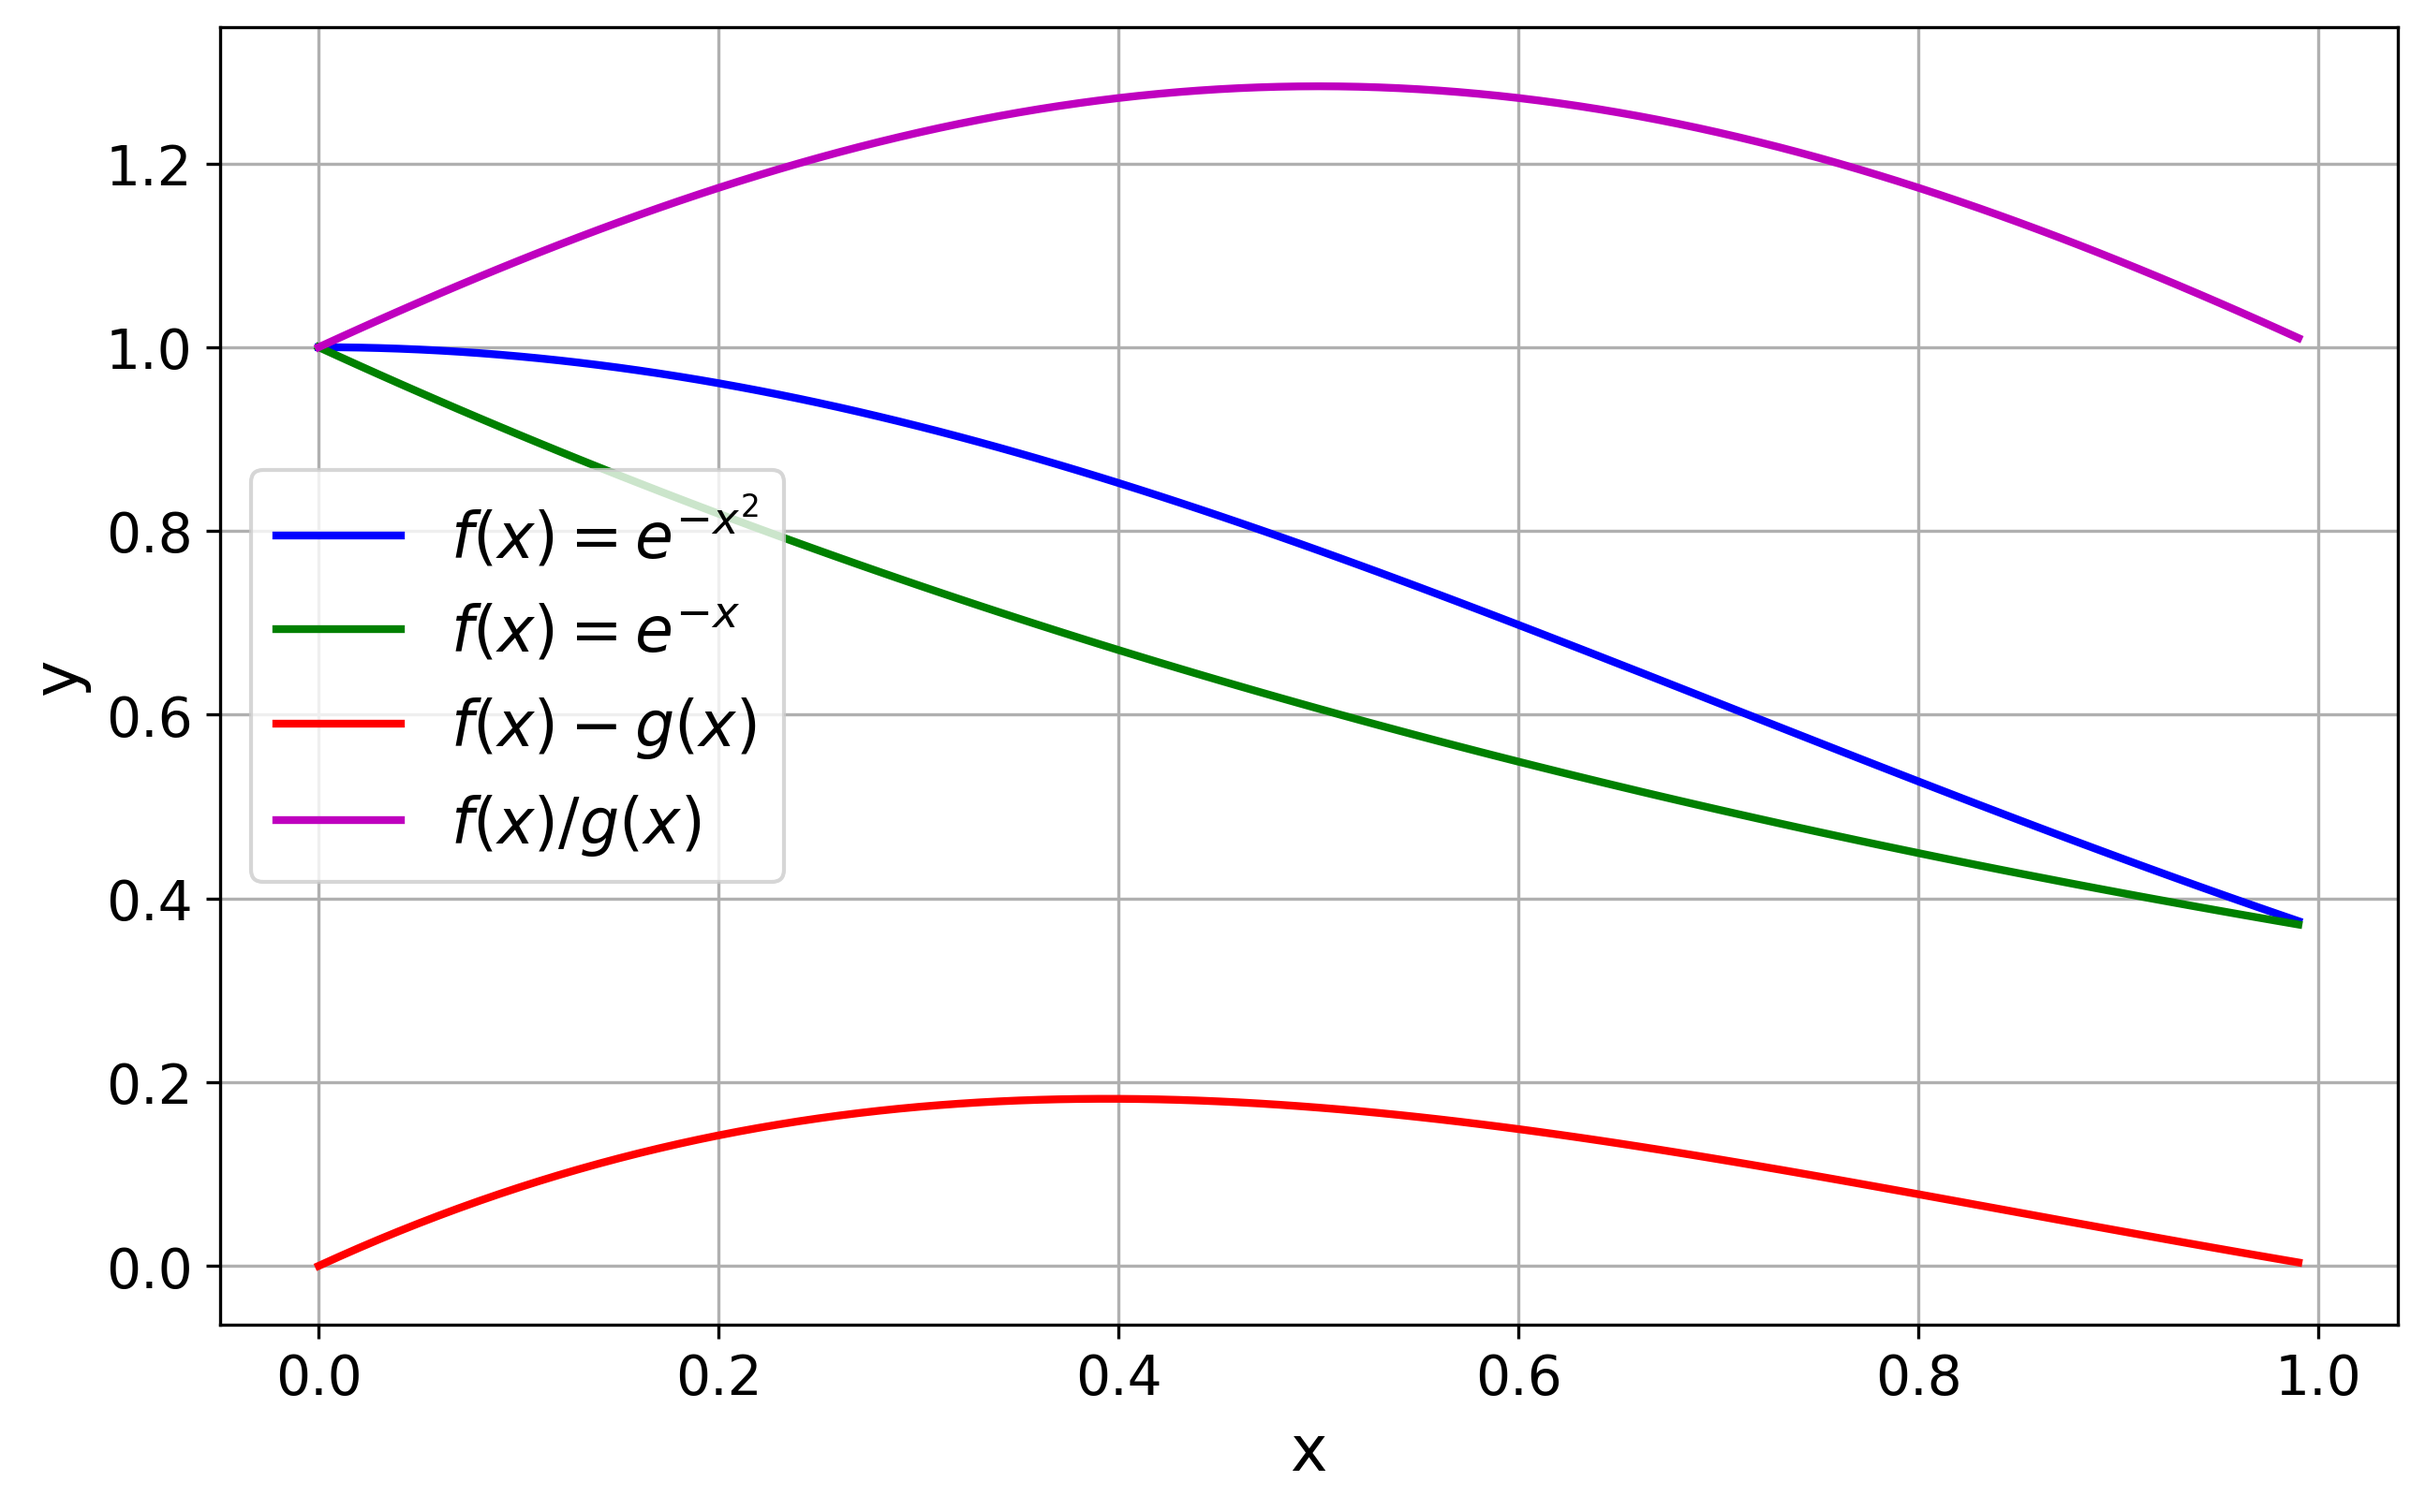
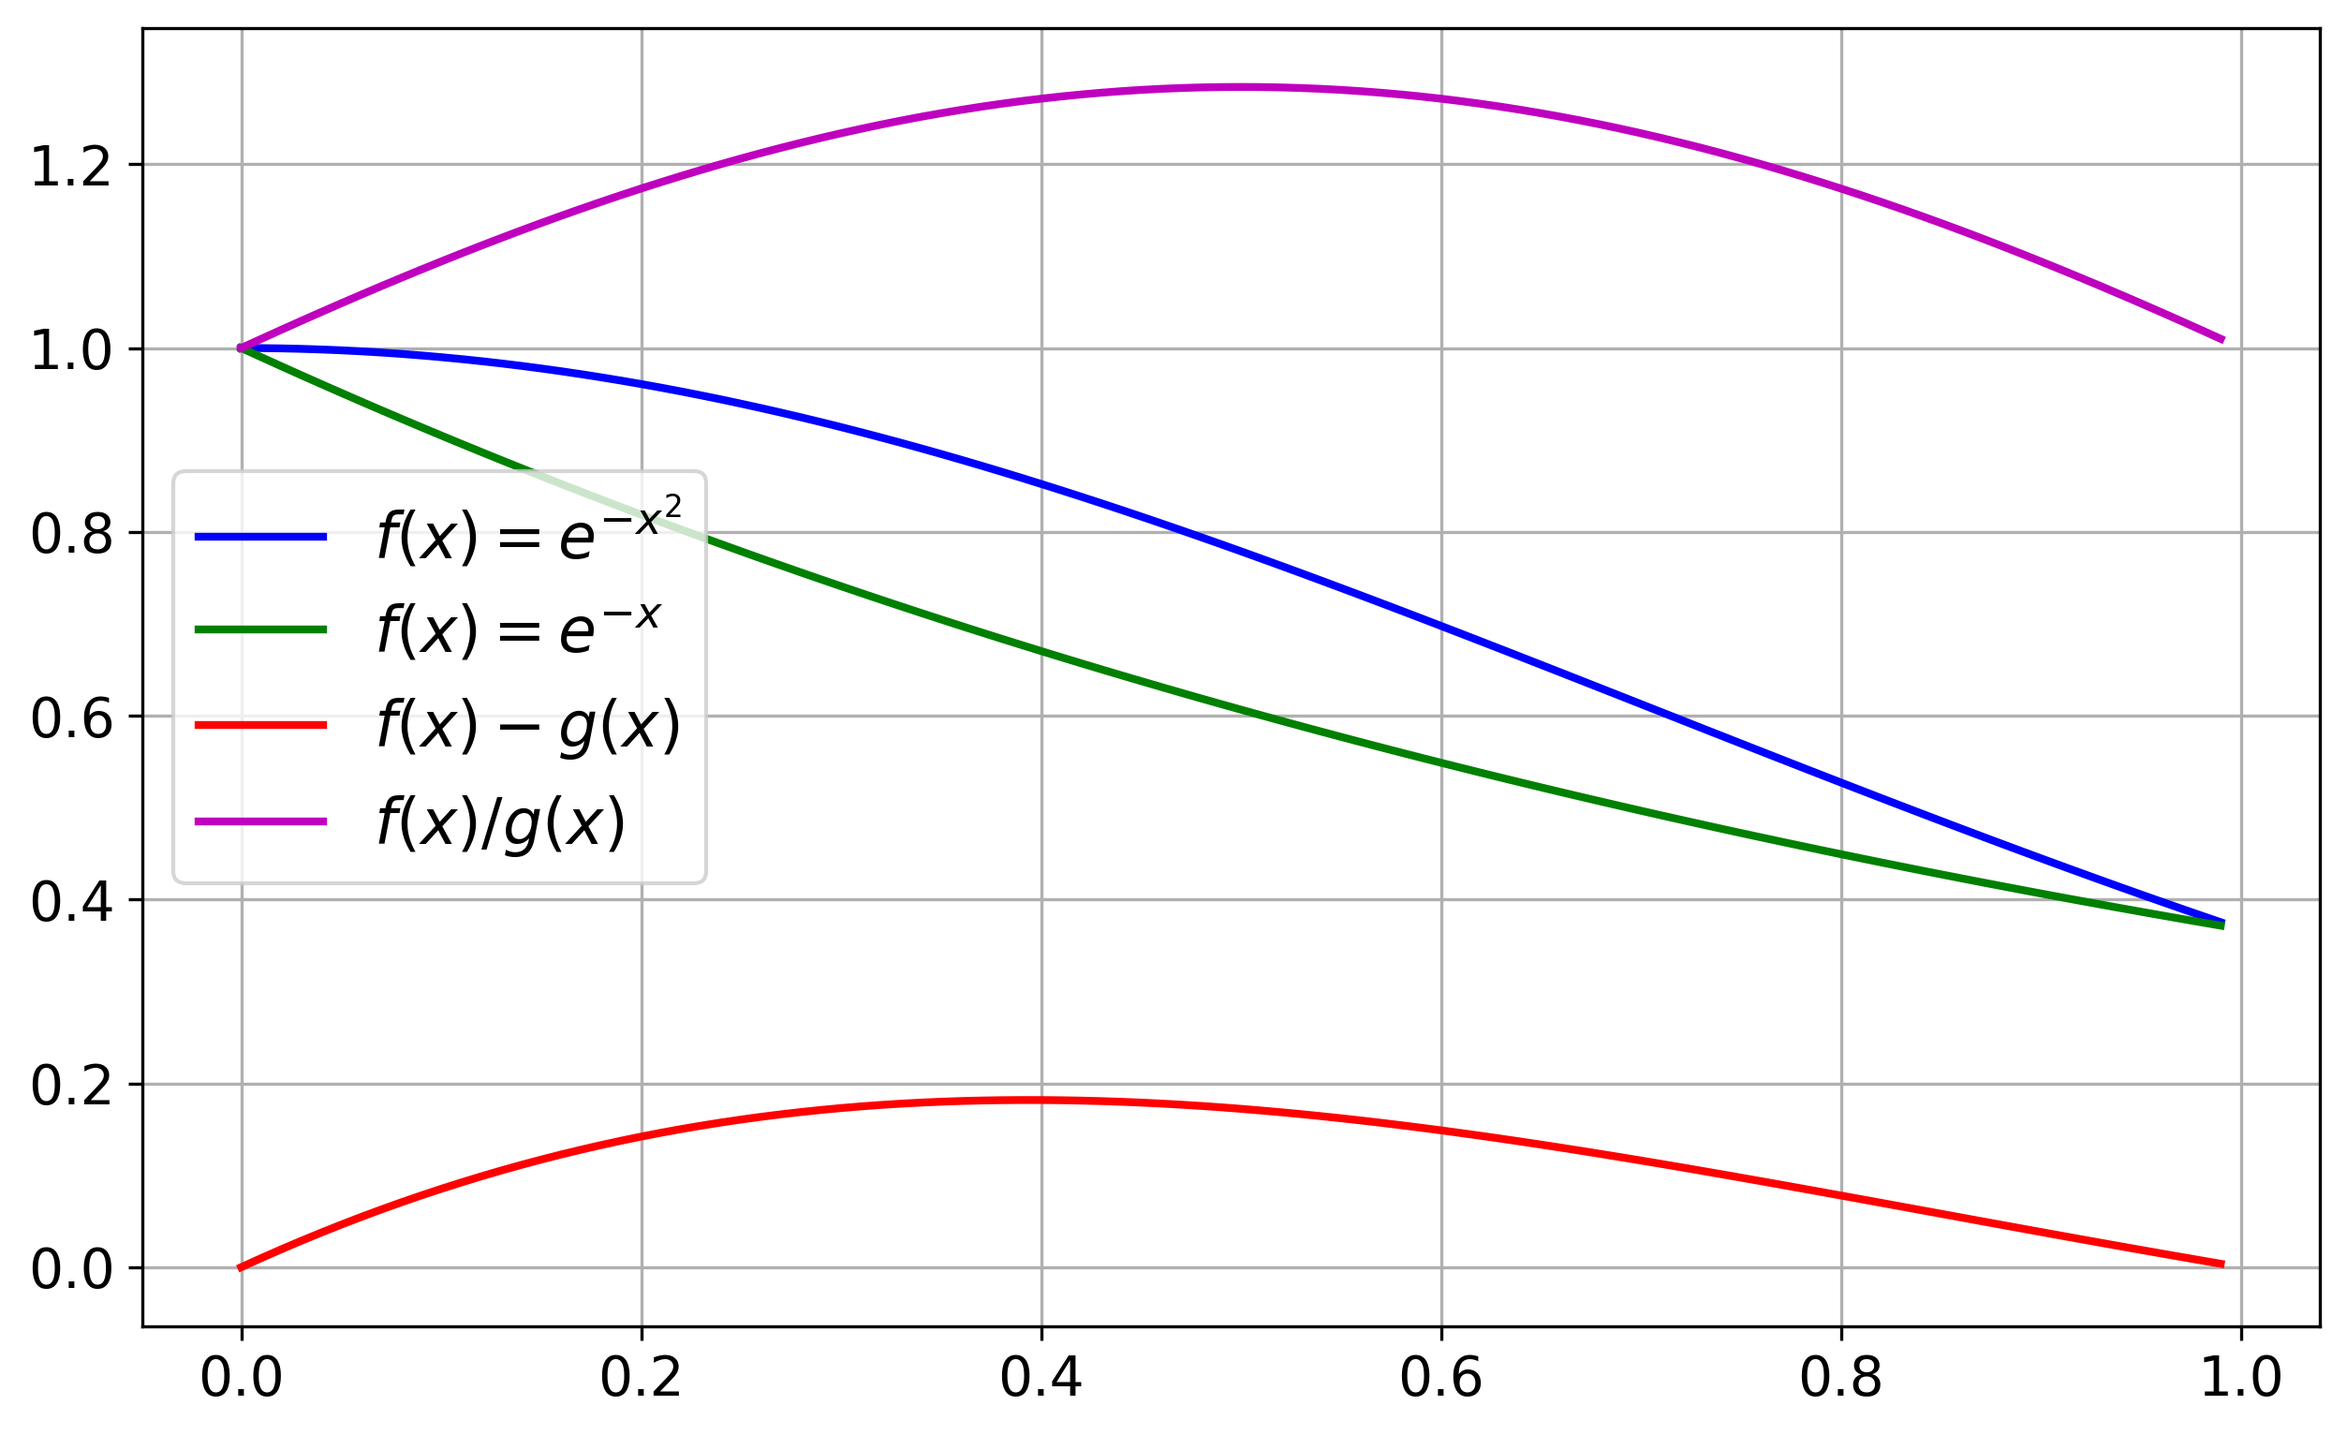
c

diff --git a/exercise2/ex2.py b/exercise2/ex2.py
@@ -144,8 +144,6 @@ plt.plot(x_plot, f_plot, 'b', linewidth=2, label=r'$f(x)=e^{-x^2}$' )
 plt.plot(x_plot, g_plot, 'g', linewidth=2, label=r'$f(x)=e^{-x}$')
 plt.plot(x_plot, f_minus_g_plot, 'r', linewidth=2, label=rf'$f(x)-g(x)$')
 plt.plot(x_plot, ratio_f_g, 'm', linewidth=2, label=rf'$f(x)/g(x)$')
-plt.xlabel("x", fontsize=16)
-plt.ylabel("y", fontsize=16)
 plt.grid(True)
 plt.legend(fontsize=16)
 plt.tick_params(axis='both', which='major', labelsize=14)
